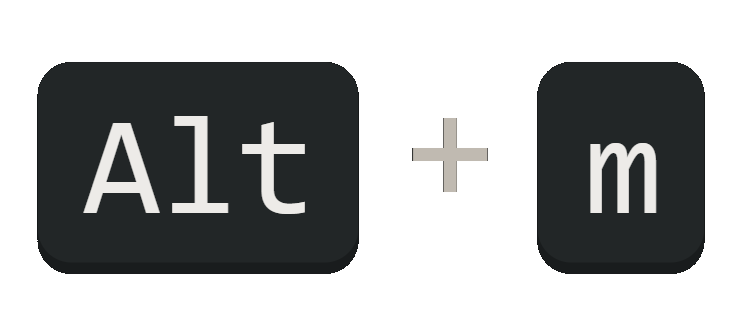
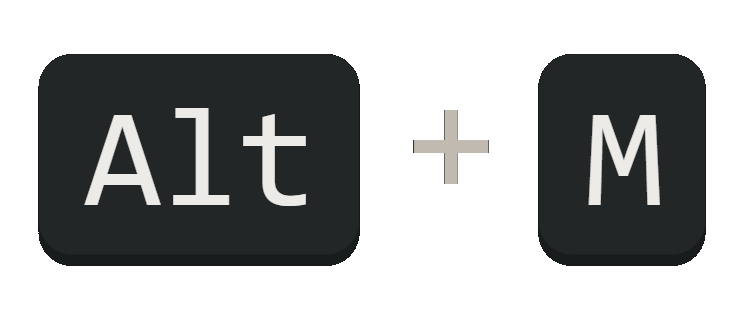
Version 1.0.0 Release * Added code to detect if minimap is disabled and will prompt to enable minimap. Fixes #12 * Made minor code formatting updates * Updated documentation for the new keyboard shortcut that refreshes minimap to uppercase <kbd>Alt</kbd>+<kbd>M</kbd>. Fixes #11 * Improved the alt ta

diff --git a/src/extension.ts b/src/extension.ts
@@ -32,12 +32,21 @@ export async function activate(context: vscode.ExtensionContext) {
 	async function refreshSettings(manual: boolean = false) {
 		//Function to perform the minimap update without needing to restart VS Code
 
-		//Get extension settings from configuration preferences
+		//Get extension settings and minimap settings from configuration preferences
 		const transparencyLevel: string = vscode.workspace.getConfiguration('TransparentMinimap').get('transparencyLevel')!;
 		const minimapColor: string = vscode.workspace.getConfiguration('TransparentMinimap').get('minimapColor')!;
-		let prevColorConfig: vscode.WorkspaceConfiguration;
-		prevColorConfig = vscode.workspace.getConfiguration('workbench.colorCustomizations');
+		let prevColorConfig: vscode.WorkspaceConfiguration = vscode.workspace.getConfiguration('workbench.colorCustomizations');
 		const configSize = Object.keys(prevColorConfig).length;
+		let minimapConfig: vscode.WorkspaceConfiguration = vscode.workspace.getConfiguration('editor.minimap.enabled');
+
+		//Warn user if minimap is disabled:
+		if (minimapConfig.get('editor.minimap.enabled') === false && !manual) {
+			const messageResponse = await vscode.window.showWarningMessage(`Minimap is disabled`, 'Enable Minimap');
+			if (messageResponse === "Enable Minimap") {
+				vscode.commands.executeCommand('workbench.action.openSettings', 'editor.minimap.enabled');
+				vscode.window.showInformationMessage(`Check the checkbox to enable the minimap`);
+			}
+		}
 
 		if (configSize > 4) {
 			//ColorCustomization setting already exists, so update "minimap.background" setting to existing extension settings

diff --git a/README.md b/README.md
@@ -2,7 +2,7 @@
 
 This extension makes your VS Code minimap transparent. You can adjust the level of transparency using the extension settings and even make your minimap a different color if you wish.
 
-![Animation of the VS Code minimap fading as its transparency increases](images/Transparent-Minimap.avifs)
+![Animation of the VS Code minimap fading as its transparency increases, showing code behind](images/Transparent-Minimap.avifs)
 
 ## Features ✨
 
@@ -11,7 +11,7 @@ This extension makes your VS Code minimap transparent. You can adjust the level 
 - Adjust minimap transparency or minimap color
 - Runs on Visual Studio Code for the Web (vscode.dev)
 - Walkthrough to help you get started using the extension
-- **NEW** Keyboard shortcut to refresh minimap settings <kbd>Alt</kbd> + <kbd>m</kbd>
+- **NEW** Keyboard shortcut to refresh minimap settings <kbd>Alt</kbd>+<kbd>M</kbd>
 - Lots of extension settings for your own customizations
 
 ## How To Use 👇
@@ -31,7 +31,9 @@ Remember to run the `Refresh Minimap Transparency Settings` command to apply the
 Color of the minimap.
 For example, `000000` is no color, `FF0000` would be fully red, `111111` would be faint grey
 
-![Animation of the VS Code minimap changing colors](images/Transparent-Minimap-Color.avifs)
+![Animation of the VS Code minimap cycling through changing colors from blue to green then red](images/Transparent-Minimap-Color.avifs)
+
+**NOTE** *In order for you to theme your minimap with a custom color, the transparency level cannot be `00`. Try setting your transparency level to about `88` and play around with the values to achieve your desired color.*
 
 ### `TransparentMinimap.enableTransparentMinimap`
 
@@ -41,12 +43,9 @@ Enable the extension to change the minimap to be transparent.
 
 ## Future Development Ideas and To-dos 📝
 
-- Add some descriptions that *you need to select a somewhat opaque transparency in order to colorize (theme) your minimap*
 - Allow user to quickly turn on/off minimap transparency using extension setting checkbox
 - Examine performance analysis of code to find potential optimizations
-- Warn user if minimap is disabled when first installing extension
 - Test oldest supported version of VS Code for compatibility
-- Switch keybinding in documentation to use uppercase <kbd>M</kbd>
 - Create and add social preview image to GitHub project
 - Improve project animations and add screenshots
 - Translate the extension to other languages
@@ -58,11 +57,16 @@ Enable the extension to change the minimap to be transparent.
 
 ## Completed To-dos ✔
 
+- ~~Add some descriptions that *you need to select a somewhat opaque transparency in order to colorize (theme) your minimap*~~
 - ~~Consider removing extension walkthrough, as it works out-of-the-box~~
 - ~~Consider adding a command to prevent need to restart VS Code~~
+- ~~Warn user if minimap is disabled when first installing extension~~
 - ~~Add keyboard shortcut to refresh minimap setting changes~~
+- ~~Switch keybinding in documentation to use uppercase <kbd>M</kbd>~~
+- ~~Create discussion board for project on GitHub~~
 - ~~Convert images and GIFs to smaller size~~
 - ~~Add GIFs to demo the extension usage~~
+- ~~Test having minimap on left~~
 
 ## Requirements 📦
 
@@ -70,7 +74,7 @@ Enable the extension to change the minimap to be transparent.
 
 ## Known Issues 🐛
 
-- N/A
+- Minimap needs to be set to display on the right (*VS Code default*)
 
 ## Sponsor This Project ❤
 

diff --git a/CHANGELOG.md b/CHANGELOG.md
@@ -1,9 +1,27 @@
 # Changelog
 
-## [0.2.0] (2022-10-06)
-
+## [1.0.0] (2022-10-08)
 #### Features
-* Added keyboard shortcut to refresh minimap transparency (or color) anytime using the keybinding of <kbd>Alt</kbd> + <kbd>m</kbd>
+* Added code to detect if minimap is disabled and will prompt to enable minimap
+
+#### Documentation
+* Made minor code formatting updates
+* Updated documentation for the new keyboard shortcut that refreshes minimap to uppercase <kbd>Alt</kbd>+<kbd>M</kbd>
+* Improved the alt tags for the images included in the project. This is to assist accessibility and contextually describe the images better
+* Added more ideas for future development to the Readme
+* Built a [discussion board for the extension on GitHub](https://github.com/BenRogersWPG/VSCode-Transparent-Minimap/discussions)
+
+#### Code Cleanup
+* Improved some comments in the source code
+
+#### House Keeping
+* Tested on VS Code 1.72
+* Tested using minimap on left, added results to Readme
+* Updated a few dependencies
+
+## [0.2.0] (2022-10-06)
+#### Features
+* Added keyboard shortcut to refresh minimap transparency (or color) anytime using the keybinding of <kbd>Alt</kbd>+<kbd>M</kbd>
 
 #### Code Cleanup
 * Greatly reduced extension package size by converting the GIF animations to AVIFS
@@ -19,7 +37,6 @@
 * Updated a few dependencies
 
 ## [0.1.0] (2022-10-04)
-
 #### Features
 * Extension can now update minimap transparency instantly without needing to reset VS Code. Just run the command `Refresh Minimap Transparency Settings` from the Command Palette.
 
